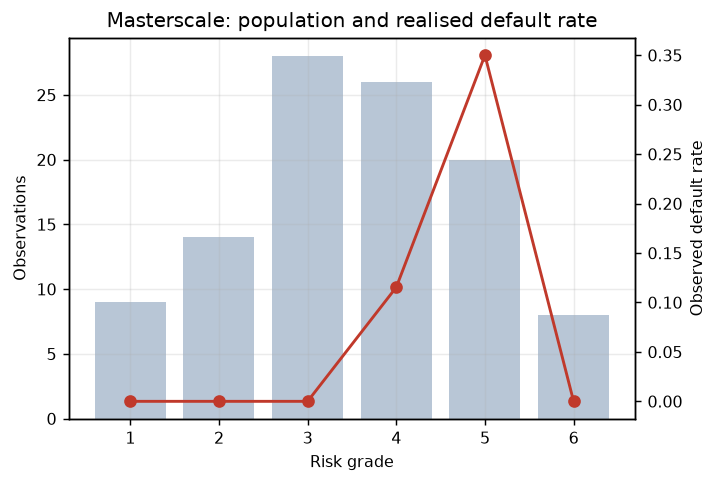
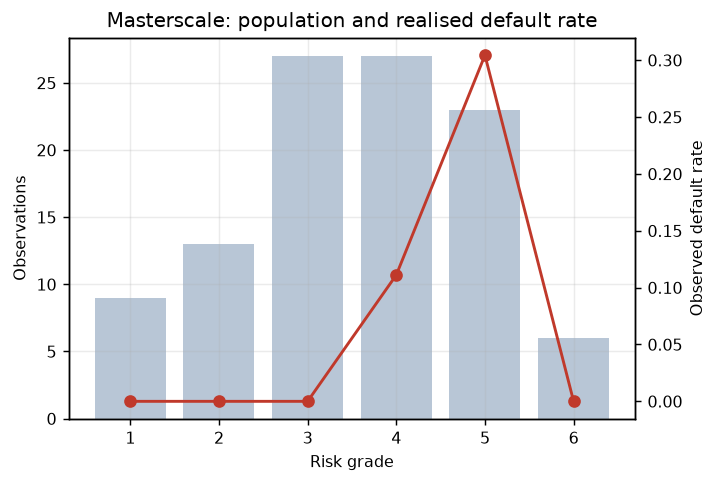
Regenerate the validation report on v0.2.1 (after the EBIT/gross-profit/debt fixes): AUC 0.824 vs Altman 0.773, verdict unchanged

diff --git a/docs/results/MODEL_VALIDATION.md b/docs/results/MODEL_VALIDATION.md
@@ -1,6 +1,6 @@
 # CreditRiskLab — Model Validation Report
 
-_Generated 2026-09-21 11:47 UTC from the pipeline run. Not hand-edited._
+_Generated 2026-09-29 17:16 UTC from the pipeline run. Not hand-edited._
 
 ## 1. Scope and limitations — read before any performance figure
 
@@ -27,19 +27,19 @@ Fundamentals are SEC XBRL 10-K facts. Every fact carries its SEC `filed` date, a
 ## 3. Discrimination
 | model                         |    AUC | 95% CI (cluster bootstrap)   |   Gini |
 |:------------------------------|-------:|:-----------------------------|-------:|
-| logistic_oof                  | 0.8200 | [0.676, 0.934]               | 0.6400 |
-| gbm_oof                       | 0.7460 | [0.576, 0.900]               | 0.4930 |
-| altman_zpp                    | 0.7710 | [0.658, 0.910]               | 0.5410 |
-| logistic_leave_one_issuer_out | 0.8380 | n/a                          |        |
-| logistic_out_of_time          | 0.9270 | n/a                          |        |
+| logistic_oof                  | 0.8240 | [0.679, 0.935]               | 0.6480 |
+| gbm_oof                       | 0.7460 | [0.577, 0.902]               | 0.4920 |
+| altman_zpp                    | 0.7730 | [0.659, 0.912]               | 0.5450 |
+| logistic_leave_one_issuer_out | 0.8350 | n/a                          |        |
+| logistic_out_of_time          | 0.9480 | n/a                          |        |
 
-KS statistic (logistic, out-of-fold): **0.632**
+KS statistic (logistic, out-of-fold): **0.653**
 
 Confidence intervals come from a bootstrap that resamples **issuers**, not rows. Resampling rows would treat one issuer's five annual observations as five independent facts and halve the apparent interval width.
 
 ## 4. Benchmark test — does the fitted model beat Altman Z''?
-- Paired AUC difference (logistic minus Z''): **0.049**
-- 95% interval: [-0.094, 0.216]
+- Paired AUC difference (logistic minus Z''): **0.052**
+- 95% interval: [-0.097, 0.220]
 - Verdict: **no distinguishable difference from Altman Z'' at this sample size — the fitted model is not demonstrably better than the published benchmark**
 
 Z'' (Altman, Hartzell & Peck 1995) is used rather than the original 1968 Z because the default cohort is retail, telecom, media and energy — not listed manufacturers — and market value of equity is not available from XBRL filings.
@@ -47,23 +47,23 @@ Z'' (Altman, Hartzell & Peck 1995) is used rather than the original 1968 Z becau
 ## 5. Coefficient review
 | feature         |   coefficient |   expected_sign |   actual_sign | sign_consistent   |
 |:----------------|--------------:|----------------:|--------------:|:------------------|
-| equity_tl       |       -1.2671 |              -1 |            -1 | True              |
-| cfo_total_debt  |       -1.2289 |              -1 |            -1 | True              |
-| current_ratio   |       -0.9951 |              -1 |            -1 | True              |
-| ebit_ta         |        0.7467 |              -1 |             1 | False             |
-| two_year_loss   |        0.6777 |               1 |             1 | True              |
-| interest_cover  |       -0.6574 |              -1 |            -1 | True              |
-| negative_equity |       -0.5995 |               1 |            -1 | False             |
-| debt_ebitda     |        0.4622 |               1 |             1 | True              |
-| net_margin      |        0.4186 |              -1 |             1 | False             |
-| wc_ta           |       -0.4014 |              -1 |            -1 | True              |
-| log_assets      |       -0.3718 |              -1 |            -1 | True              |
-| re_ta           |       -0.1588 |              -1 |            -1 | True              |
+| cfo_total_debt  |       -1.2781 |              -1 |            -1 | True              |
+| equity_tl       |       -1.1680 |              -1 |            -1 | True              |
+| current_ratio   |       -1.0373 |              -1 |            -1 | True              |
+| ebit_ta         |        0.7263 |              -1 |             1 | False             |
+| two_year_loss   |        0.6978 |               1 |             1 | True              |
+| interest_cover  |       -0.6738 |              -1 |            -1 | True              |
+| negative_equity |       -0.5457 |               1 |            -1 | False             |
+| net_margin      |        0.4580 |              -1 |             1 | False             |
+| debt_ebitda     |        0.4254 |               1 |             1 | True              |
+| log_assets      |       -0.3518 |              -1 |            -1 | True              |
+| wc_ta           |       -0.3497 |              -1 |            -1 | True              |
+| re_ta           |       -0.2070 |              -1 |            -1 | True              |
 
 **Sign violations against credit priors (reported, not corrected):**
-- ebit_ta: coefficient +0.747 contradicts the expected sign (higher value => lower PD)
-- negative_equity: coefficient -0.600 contradicts the expected sign (higher value => higher PD)
-- net_margin: coefficient +0.419 contradicts the expected sign (higher value => lower PD)
+- ebit_ta: coefficient +0.726 contradicts the expected sign (higher value => lower PD)
+- negative_equity: coefficient -0.546 contradicts the expected sign (higher value => higher PD)
+- net_margin: coefficient +0.458 contradicts the expected sign (higher value => lower PD)
 
 ## 6. Calibration and prior correction
 Calibration is **cross-fitted by issuer**: each issuer's PD is mapped by a calibrator learned only from other issuers, so the metrics below are out-of-sample rather than a fitted curve scored on its own data.
@@ -71,47 +71,47 @@ Calibration is **cross-fitted by issuer**: each issuer's PD is mapped by a calib
 - Calibration method actually fitted: **platt**
 - Sample default rate: **9.52%**
 - Population default rate used for correction: **2.00%** (ASSUMPTION)
-- Mean PD before prior correction: **9.64%**
-- Mean PD after prior correction: **2.30%**
+- Mean PD before prior correction: **9.66%**
+- Mean PD after prior correction: **2.29%**
 
 The sample over-represents defaults by roughly an order of magnitude — unavoidable when building a default sample from SEC filings, and the reason the correction exists. Without it every PD, expected loss and capital figure in this report would be inflated by a similar multiple. The correction is monotone, so discrimination is unaffected.
 
-- Brier score: **0.081** (reliability 0.0159, resolution 0.0190, uncertainty 0.0862)
-- Calibration slope: **0.942** (1.0 = perfect; below 1 means predictions are too extreme)
-- Calibration intercept: **-0.114**
-- Hosmer-Lemeshow: chi2 12.166, dof 8, p 0.144 — low power at this sample size; a non-rejection is not evidence of calibration
+- Brier score: **0.081** (reliability 0.0130, resolution 0.0169, uncertainty 0.0862)
+- Calibration slope: **0.947** (1.0 = perfect; below 1 means predictions are too extreme)
+- Calibration intercept: **-0.109**
+- Hosmer-Lemeshow: chi2 7.517, dof 8, p 0.482 — low power at this sample size; a non-rejection is not evidence of calibration
 
 **Reliability by predicted-PD bucket**
 
 |   bucket |       n |   mean_predicted_pd |   observed_default_rate |   observed_defaults |
 |---------:|--------:|--------------------:|------------------------:|--------------------:|
-|   1.0000 | 21.0000 |              0.0051 |                  0.0000 |              0.0000 |
-|   2.0000 | 21.0000 |              0.0222 |                  0.0000 |              0.0000 |
-|   3.0000 | 21.0000 |              0.0541 |                  0.0476 |              1.0000 |
-|   4.0000 | 21.0000 |              0.1191 |                  0.1429 |              3.0000 |
-|   5.0000 | 21.0000 |              0.2815 |                  0.2857 |              6.0000 |
+|   1.0000 | 21.0000 |              0.0064 |                  0.0000 |              0.0000 |
+|   2.0000 | 21.0000 |              0.0244 |                  0.0000 |              0.0000 |
+|   3.0000 | 21.0000 |              0.0556 |                  0.0476 |              1.0000 |
+|   4.0000 | 21.0000 |              0.1206 |                  0.1905 |              4.0000 |
+|   5.0000 | 21.0000 |              0.2758 |                  0.2381 |              5.0000 |
 
 **PD sensitivity to the assumed population default rate**
 
 |   population_rate |   mean_pd |   max_pd |
 |------------------:|----------:|---------:|
-|            0.0100 |    0.0117 |   0.0690 |
-|            0.0200 |    0.0230 |   0.1303 |
-|            0.0300 |    0.0338 |   0.1850 |
+|            0.0100 |    0.0117 |   0.0732 |
+|            0.0200 |    0.0229 |   0.1377 |
+|            0.0300 |    0.0337 |   0.1948 |
 
 ## 7. Population stability (early vs. late window)
 | feature         |    psi | reading        |
 |:----------------|-------:|:---------------|
 | log_assets      | 4.2218 | material shift |
-| debt_ebitda     | 3.8311 | material shift |
 | current_ratio   | 3.7600 | material shift |
-| interest_cover  | 2.6772 | material shift |
+| debt_ebitda     | 2.8306 | material shift |
 | wc_ta           | 2.5943 | material shift |
 | cfo_total_debt  | 2.5187 | material shift |
+| interest_cover  | 2.4337 | material shift |
 | equity_tl       | 1.7216 | material shift |
+| ebit_ta         | 1.5225 | material shift |
 | re_ta           | 1.3723 | material shift |
 | net_margin      | 1.2338 | material shift |
-| ebit_ta         | 0.4244 | material shift |
 | negative_equity | 0.0000 | stable         |
 | two_year_loss   | 0.0000 | stable         |
 
@@ -122,18 +122,18 @@ Grades are assigned on prior-corrected PD. The observed default rate per grade i
 
 |   grade |   n |   observed_defaults |   mean_pd |   observed_default_rate | label       |
 |--------:|----:|--------------------:|----------:|------------------------:|:------------|
-|       1 |   9 |                   0 |    0.0002 |                  0.0000 | Minimal     |
-|       2 |  14 |                   0 |    0.0018 |                  0.0000 | Low         |
-|       3 |  28 |                   0 |    0.0056 |                  0.0000 | Moderate    |
-|       4 |  26 |                   3 |    0.0181 |                  0.1154 | Acceptable  |
-|       5 |  20 |                   7 |    0.0470 |                  0.3500 | Watch       |
-|       6 |   8 |                   0 |    0.1022 |                  0.0000 | Substandard |
+|       1 |   9 |                   0 |    0.0003 |                  0.0000 | Minimal     |
+|       2 |  13 |                   0 |    0.0020 |                  0.0000 | Low         |
+|       3 |  27 |                   0 |    0.0058 |                  0.0000 | Moderate    |
+|       4 |  27 |                   3 |    0.0170 |                  0.1111 | Acceptable  |
+|       5 |  23 |                   7 |    0.0487 |                  0.3043 | Watch       |
+|       6 |   6 |                   0 |    0.1062 |                  0.0000 | Substandard |
 
 - Monotonic across tested grades: **False**
 - Grades tested: ['1', '2', '3', '4', '5', '6']
 - Grades excluded for small bucket size (< 3): []
 - Violations:
-  - grade 5 -> 6: observed default rate falls 35.00% -> 0.00%
+  - grade 5 -> 6: observed default rate falls 30.43% -> 0.00%
 
 ## 9. Expected loss, capital and default backtest
 
@@ -141,26 +141,26 @@ Grades are assigned on prior-corrected PD. The observed default rate per grade i
 
 |      year |   issuers |   expected_defaults |   realised_defaults |       z |
 |----------:|----------:|--------------------:|--------------------:|--------:|
-| 2015.0000 |   13.0000 |              0.9500 |              0.0000 | -1.0500 |
-| 2016.0000 |   14.0000 |              1.1400 |              0.0000 | -1.1600 |
-| 2017.0000 |   15.0000 |              1.6400 |              2.0000 |  0.3200 |
+| 2015.0000 |   13.0000 |              0.9800 |              0.0000 | -1.0700 |
+| 2016.0000 |   14.0000 |              1.1900 |              0.0000 | -1.1900 |
+| 2017.0000 |   15.0000 |              1.6800 |              2.0000 |  0.2900 |
 | 2018.0000 |   13.0000 |              1.3900 |              0.0000 | -1.3300 |
-| 2019.0000 |   13.0000 |              1.3200 |              4.0000 |  2.6300 |
-| 2020.0000 |    9.0000 |              1.0800 |              0.0000 | -1.2100 |
-| 2021.0000 |    9.0000 |              1.1000 |              1.0000 | -0.1100 |
-| 2022.0000 |    8.0000 |              1.0600 |              2.0000 |  1.0900 |
-| 2023.0000 |    6.0000 |              0.3200 |              1.0000 |  1.2800 |
-| 2024.0000 |    5.0000 |              0.1400 |              0.0000 | -0.3900 |
+| 2019.0000 |   13.0000 |              1.3100 |              4.0000 |  2.6400 |
+| 2020.0000 |    9.0000 |              1.0500 |              0.0000 | -1.1900 |
+| 2021.0000 |    9.0000 |              1.0700 |              1.0000 | -0.0800 |
+| 2022.0000 |    8.0000 |              0.9900 |              2.0000 |  1.1900 |
+| 2023.0000 |    6.0000 |              0.3200 |              1.0000 |  1.2500 |
+| 2024.0000 |    5.0000 |              0.1500 |              0.0000 | -0.4000 |
 
 **Cross-sectional portfolio as of 2019-06-30** — every issuer observed on that date, scored only with filings visible then.
 
 - Issuers: **13**
 - Total EAD (proxy): **222,415,709,000**
-- Expected loss: **1,643,512,205** (0.74% of EAD)
-- Exposure-weighted PD (prior-corrected): **1.57%**
+- Expected loss: **1,651,082,740** (0.74% of EAD)
+- Exposure-weighted PD (prior-corrected): **1.58%**
 - Exposure-weighted LGD: **46.9%**
-- Basel IRB capital requirement: **17,792,496,378**
-- Risk-weighted assets: **222,406,204,729**
+- Basel IRB capital requirement: **18,067,537,071**
+- Risk-weighted assets: **225,844,213,382**
 - Issuers in this cross-section that defaulted within 12 months: **4**
 
 EAD is a proxy — reported total debt, treated as fully drawn, excluding operating leases. Real EAD requires a facility schedule with committed undrawn lines, which no public filer discloses. The CCF machinery for facility data is implemented and tested in `risk.ead`.
@@ -169,19 +169,19 @@ EAD is a proxy — reported total debt, treated as fully drawn, excluding operat
 
 | ticker   | sector                             | as_of      |   grade |     pd |    lgd |   lgd_downturn |               ead |   defaulted_within_12m |
 |:---------|:-----------------------------------|:-----------|--------:|-------:|-------:|---------------:|------------------:|-----------------------:|
-| AAPL     | Technology                         | 2019-06-30 |       4 | 0.0127 | 0.4700 |         0.6200 | 102519000000.0000 |                      0 |
+| AAPL     | Technology                         | 2019-06-30 |       4 | 0.0139 | 0.4700 |         0.6200 | 102519000000.0000 |                      0 |
 | AMZN     | Retail — e-commerce                | 2019-06-30 |       3 | 0.0075 | 0.4700 |         0.6200 |  24866000000.0000 |                      0 |
-| BBBY     | Retail — home goods                | 2019-06-30 |       3 | 0.0034 | 0.4700 |         0.6200 |   1487934000.0000 |                      0 |
-| CHK      | Energy — E&P                       | 2019-06-30 |       5 | 0.0562 | 0.4750 |         0.6250 |   7722000000.0000 |                      1 |
-| COST     | Retail — warehouse club            | 2019-06-30 |       3 | 0.0066 | 0.4700 |         0.6200 |   6577000000.0000 |                      0 |
-| FTR      | Telecom                            | 2019-06-30 |       5 | 0.0400 | 0.4850 |         0.6350 |  17172000000.0000 |                      1 |
-| HTZ      | Consumer services — vehicle rental | 2019-06-30 |       4 | 0.0166 | 0.4500 |         0.6000 |  16324000000.0000 |                      1 |
-| JCP      | Retail — department stores         | 2019-06-30 |       4 | 0.0160 | 0.4650 |         0.6150 |   3808000000.0000 |                      1 |
-| JNJ      | Healthcare — pharma                | 2019-06-30 |       2 | 0.0021 | 0.4700 |         0.6200 |  30284000000.0000 |                      0 |
-| NKE      | Consumer discretionary             | 2019-06-30 |       1 | 0.0003 | 0.4700 |         0.6200 |   3474000000.0000 |                      0 |
-| PRTY     | Retail — specialty                 | 2019-06-30 |       4 | 0.0202 | 0.4550 |         0.6050 |   1635279000.0000 |                      0 |
-| RAD      | Retail — pharmacy                  | 2019-06-30 |       4 | 0.0208 | 0.4500 |         0.6000 |   3470696000.0000 |                      0 |
-| REV      | Consumer staples — cosmetics       | 2019-06-30 |       6 | 0.1108 | 0.4600 |         0.6100 |   3075800000.0000 |                      0 |
+| BBBY     | Retail — home goods                | 2019-06-30 |       3 | 0.0037 | 0.4700 |         0.6200 |   1487934000.0000 |                      0 |
+| CHK      | Energy — E&P                       | 2019-06-30 |       5 | 0.0591 | 0.4750 |         0.6250 |   7722000000.0000 |                      1 |
+| COST     | Retail — warehouse club            | 2019-06-30 |       3 | 0.0073 | 0.4700 |         0.6200 |   6577000000.0000 |                      0 |
+| FTR      | Telecom                            | 2019-06-30 |       5 | 0.0336 | 0.4850 |         0.6350 |  17172000000.0000 |                      1 |
+| HTZ      | Consumer services — vehicle rental | 2019-06-30 |       4 | 0.0140 | 0.4500 |         0.6000 |  16324000000.0000 |                      1 |
+| JCP      | Retail — department stores         | 2019-06-30 |       4 | 0.0192 | 0.4650 |         0.6150 |   3808000000.0000 |                      1 |
+| JNJ      | Healthcare — pharma                | 2019-06-30 |       2 | 0.0026 | 0.4700 |         0.6200 |  30284000000.0000 |                      0 |
+| NKE      | Consumer discretionary             | 2019-06-30 |       1 | 0.0004 | 0.4700 |         0.6200 |   3474000000.0000 |                      0 |
+| PRTY     | Retail — specialty                 | 2019-06-30 |       4 | 0.0208 | 0.4550 |         0.6050 |   1635279000.0000 |                      0 |
+| RAD      | Retail — pharmacy                  | 2019-06-30 |       4 | 0.0197 | 0.4500 |         0.6000 |   3470696000.0000 |                      0 |
+| REV      | Consumer staples — cosmetics       | 2019-06-30 |       6 | 0.1085 | 0.4600 |         0.6100 |   3075800000.0000 |                      0 |
 
 ## 10. Sourced inputs
 Every recovery assumption below is SOURCED to published research, not assumed.
